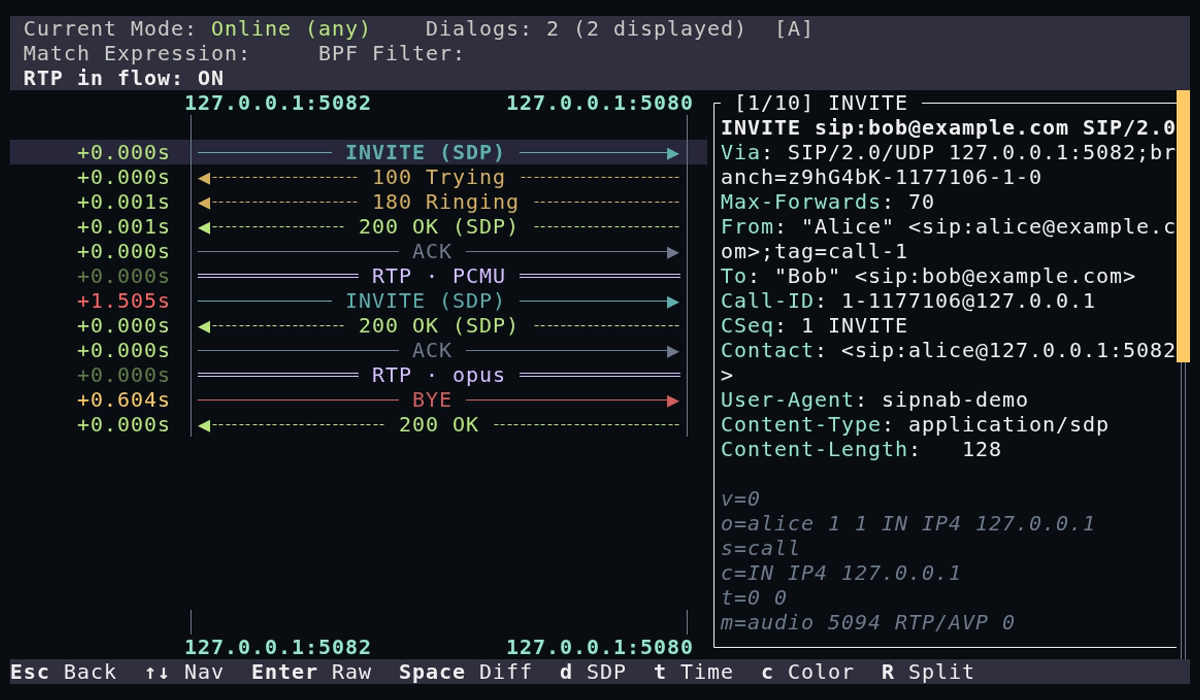
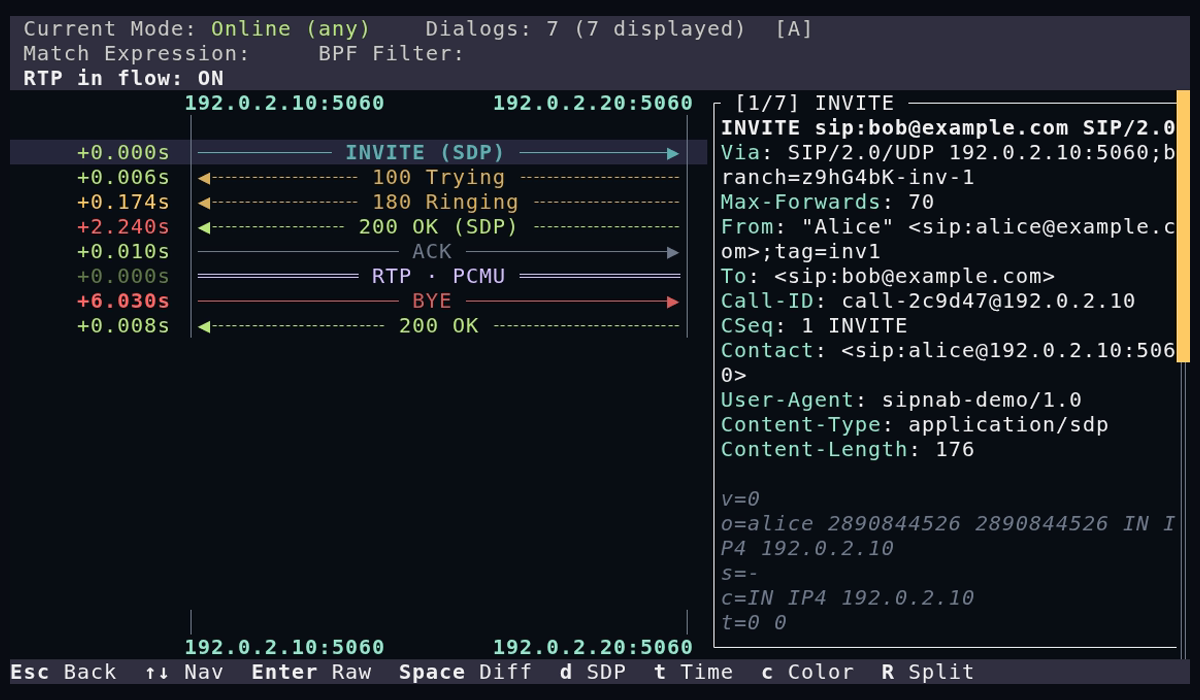
Show the same call on the homepage that /analyze offers
Three surfaces, three different captures: the hero still used
register-invite-reinvite-bye.pcap, the first demo tab uses
sip-rtp-g711.pcap, and /analyze's "Load a sample call" fetches
demos/sample-call.pcap. A visitor watched one call and clicked through to
a different one.

The hero now drives sample-call.pcap, which is the capture /analyze
serves. Unifying that way rather than the other keeps the richer one:
seven dialogs covering Registered, Expired (an unregister by both the
Expires header and the Contact parameter), Active, Pending and Terminated
subscriptions, an OPTIONS ping, and the call itself with 600 RTP packets.
Pointing /analyze at the hero's simpler capture would have shrunk what
the page demonstrates to make two files match.

The call is the seventh dialog, so the tape takes six Downs to reach it.
That coupling is stated in the tape: adding a dialog to
gen-sample-call.py silently retargets this screenshot at whatever then
sits seventh.

Rendered on the host that carries vhs, ttyd, chromium and the fonts,
against the published 0.5.139 x86_64 artifact via SIPNAB_BIN -- the
Makefile's version check still applies, so the UI in the image is the one
this tree ships. The alt text described the OLD capture, down to a
re-INVITE and hold that the new image does not contain, so it is
rewritten to what the screenshot actually shows; ?v=1 becomes ?v=2 so
browsers refetch rather than serving the previous still from cache.
[…]

diff --git a/website/templates/index.html b/website/templates/index.html
@@ -36,7 +36,7 @@
 
   <!-- Hero — static screenshot of the TUI -->
   <div class="terminal-wrap">
-    <img id="hero-shot" src="{{ get_url(path='demos/hero-static.webp') }}?v=1" width="1200" height="700" fetchpriority="high" alt="sipnab interactive TUI — call-flow ladder of a complete SIP lifecycle: REGISTER, then INVITE / 180 Ringing / 200 OK / ACK, an in-dialog re-INVITE (hold), and BYE, with the decoded INVITE in the detail pane" class="hero-screenshot">
+    <img id="hero-shot" src="{{ get_url(path='demos/hero-static.webp') }}?v=2" width="1200" height="700" fetchpriority="high" alt="sipnab interactive TUI — call-flow ladder of a complete call: INVITE with SDP, 100 Trying, 180 Ringing, 200 OK, ACK, the RTP media line, then BYE and its 200 OK, with the decoded INVITE in the detail pane. One of seven dialogs in the same sample capture the analyze page loads" class="hero-screenshot">
   </div>
 </section>
 
